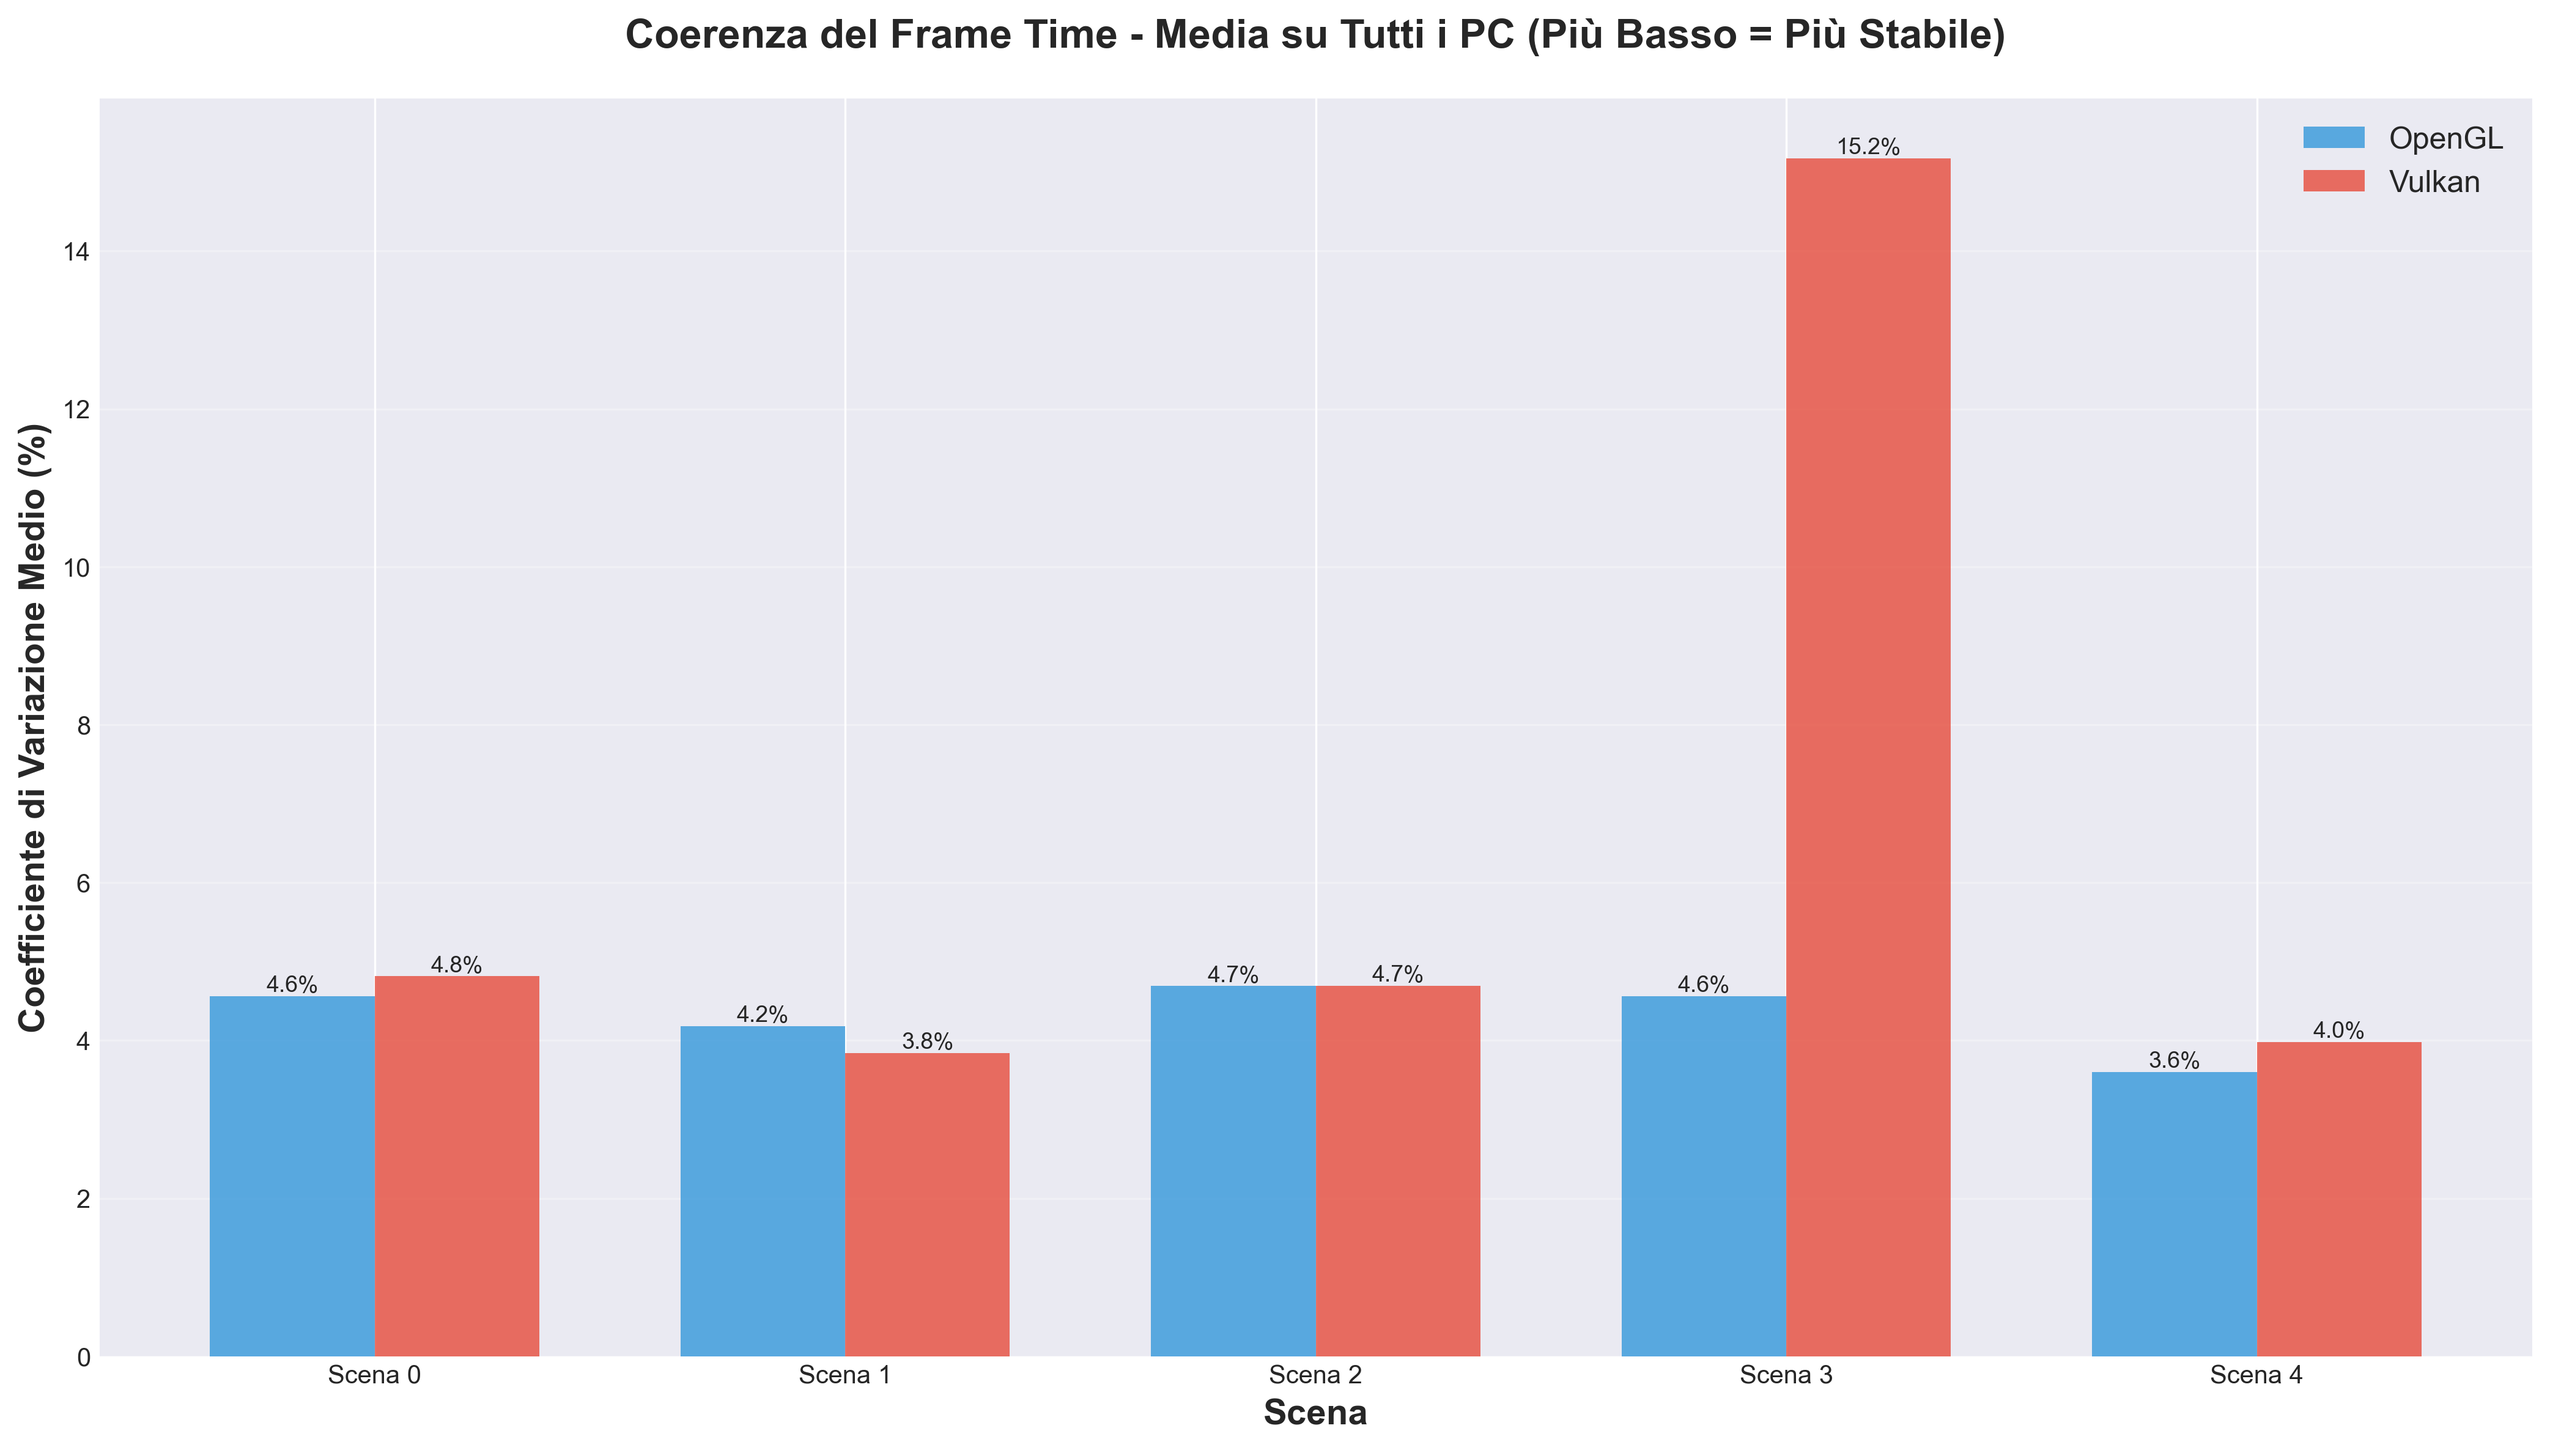
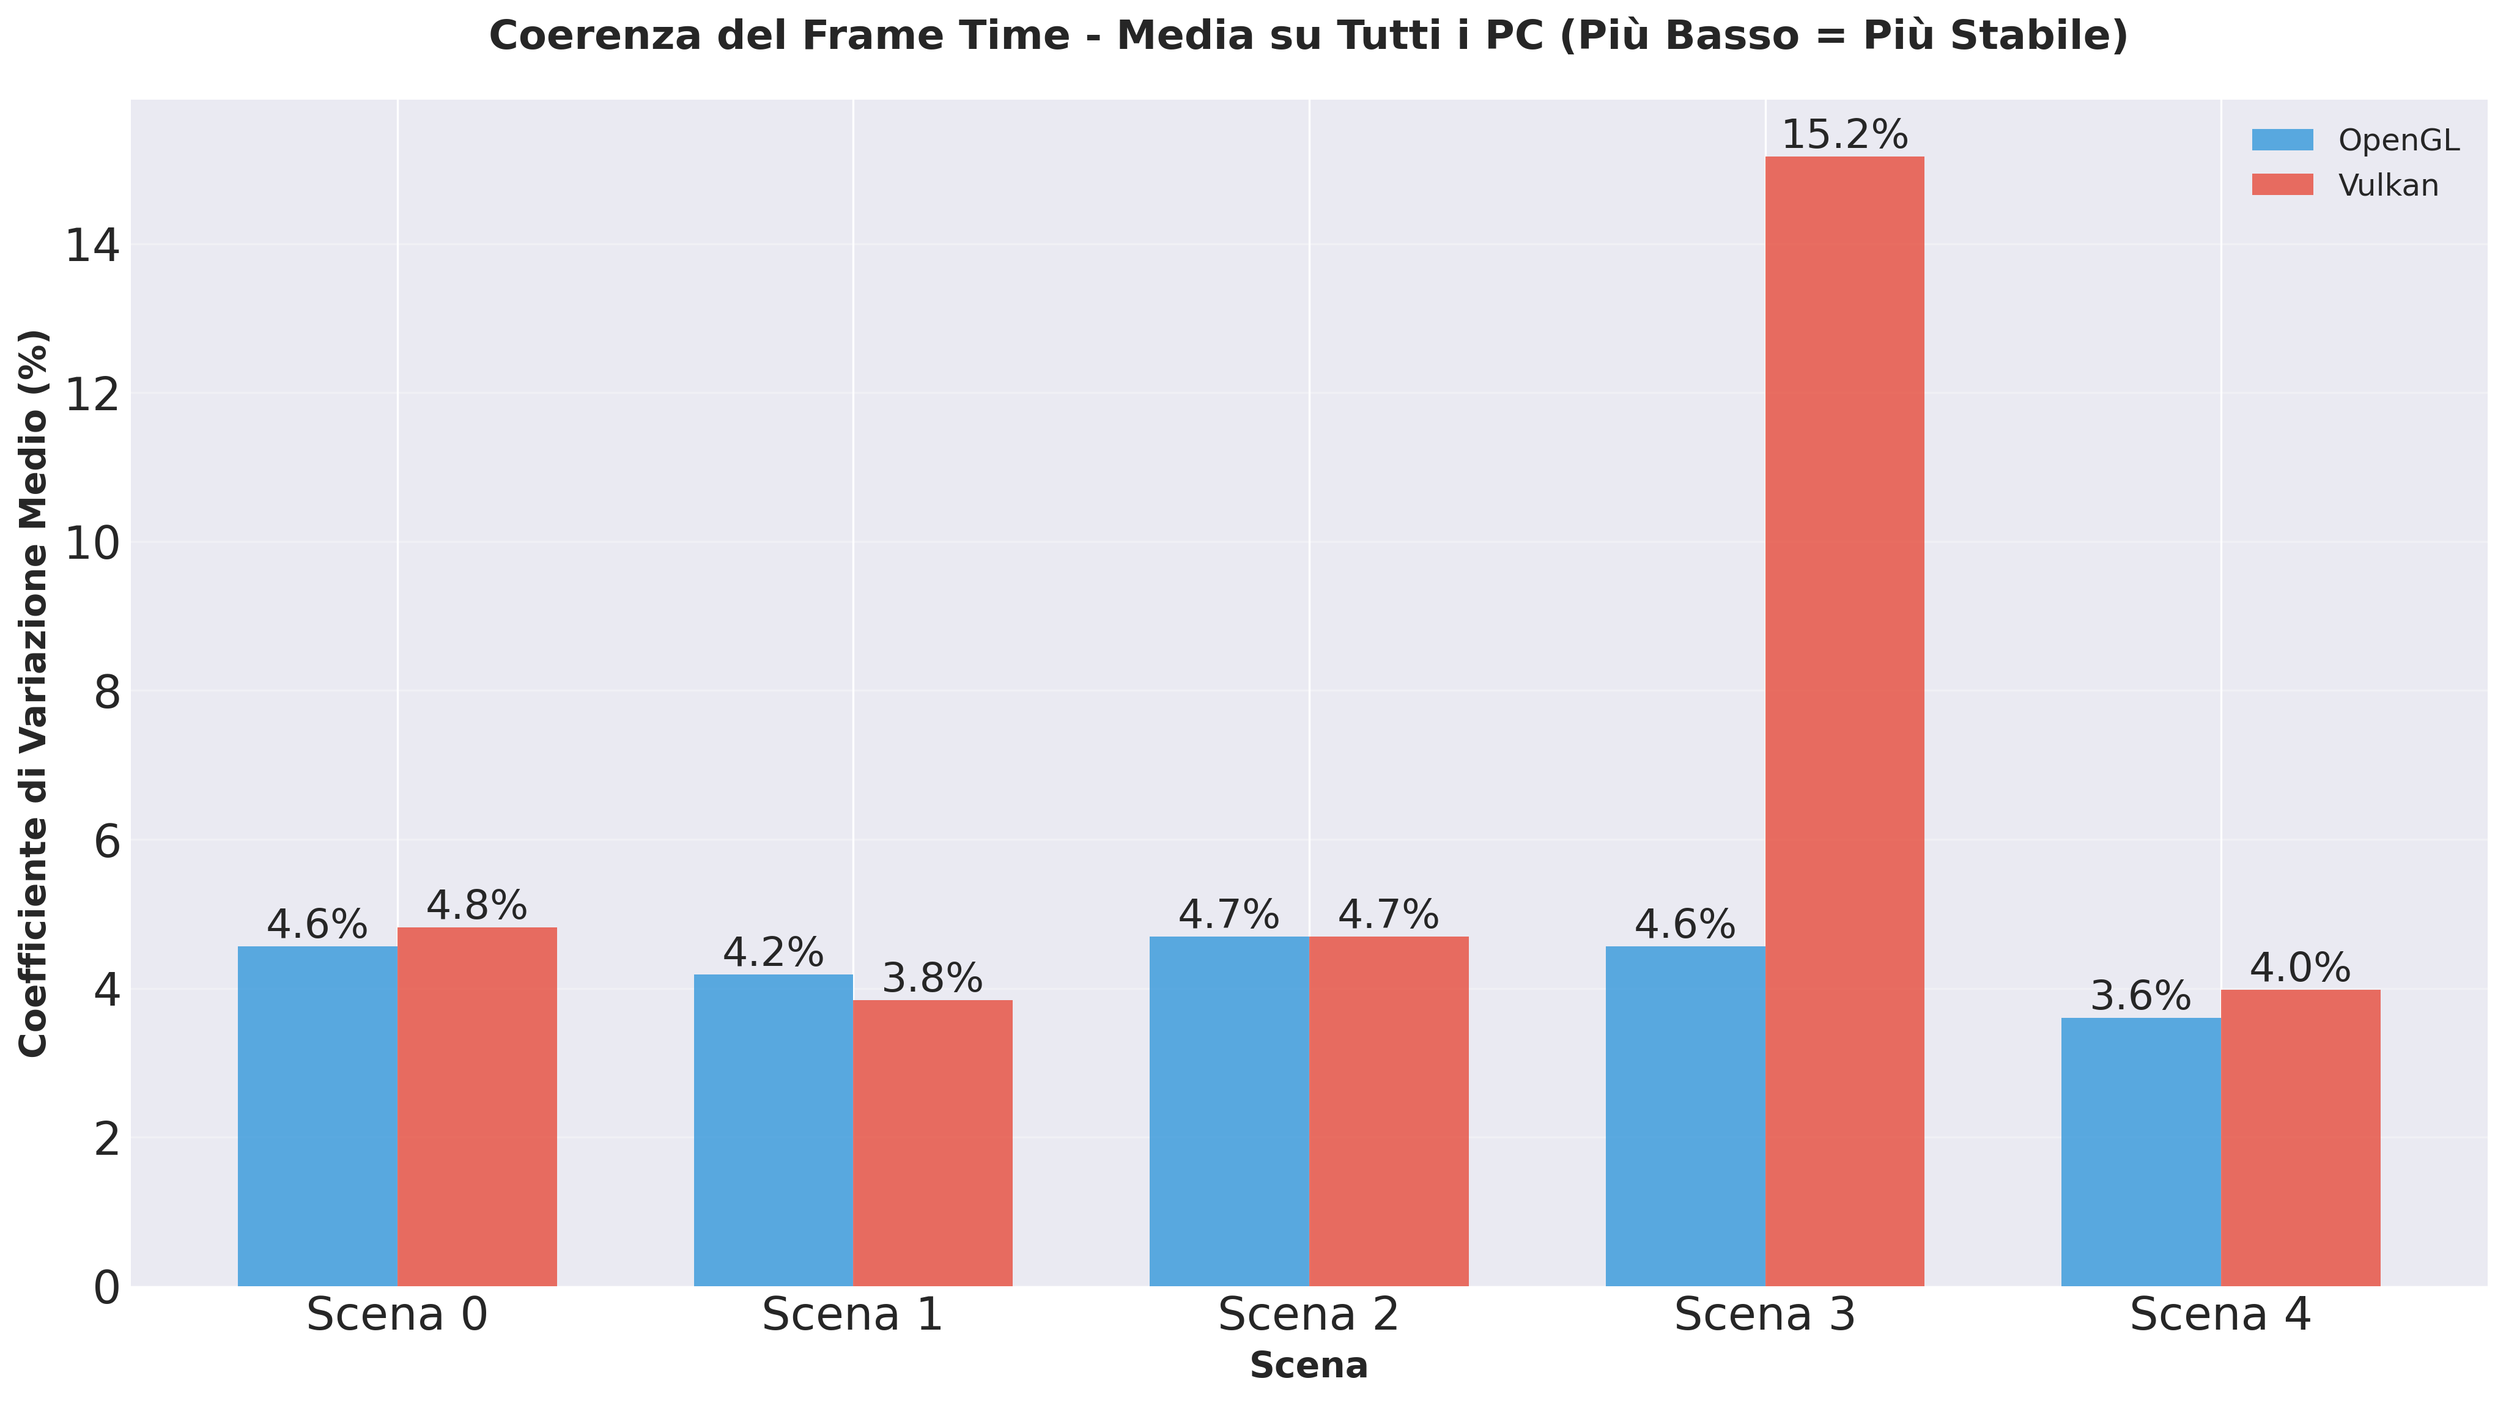
Increase graph font sizes

diff --git a/scripts/main.py b/scripts/main.py
@@ -10,14 +10,32 @@ from scipy import stats
 # ==============================
 # Configuration
 # ==============================
-plt.style.use('seaborn-v0_8-darkgrid')
-sns.set_palette("husl")
-
 DATA_ROOT = "data_clean"
 IMG_ROOT = "img"
+FONT_SIZE = 18  # <-- master font size variable
+
 os.makedirs(IMG_ROOT, exist_ok=True)
 
 pattern = re.compile(r"Scene_(\d+)_(opengl|vulkan)_.+_(frames|system)\.csv")
+
+plt.style.use('seaborn-v0_8-darkgrid')
+sns.set_palette("husl")
+
+plt.rcParams.update({
+    'font.size': FONT_SIZE,              # Base font size
+    'font.family': 'sans-serif',         # or 'serif', 'monospace', etc.
+    'font.sans-serif': ['DejaVu Sans'],  # Optional: specify actual font list
+    'axes.titlesize': FONT_SIZE + 4,
+    'axes.titleweight': 'bold',          # Control weight
+    'axes.labelsize': FONT_SIZE + 2,
+    'axes.labelweight': 'regular',
+    'xtick.labelsize': FONT_SIZE,
+    'ytick.labelsize': FONT_SIZE,
+    'legend.fontsize': FONT_SIZE,
+    'figure.titlesize': FONT_SIZE + 6,   # Title for the whole figure
+    'figure.titleweight': 'bold',
+})
+
 
 # ==============================
 # Data Collection
@@ -174,7 +192,7 @@ if "Average FPS" in summary.columns:
         for bar in bars:
             height = bar.get_height()
             ax.text(bar.get_x() + bar.get_width()/2., height, f'{height:.0f}', 
-                   ha='center', va='bottom', fontsize=10, fontweight='bold')
+                   ha='center', va='bottom', fontsize=FONT_SIZE-2, fontweight='bold')
 
     ax.set_xlabel('Scena', fontsize=14, fontweight='bold')
     ax.set_ylabel('FPS Medio', fontsize=14, fontweight='bold')
@@ -359,7 +377,7 @@ if not frames.empty and "FrameTime(ms)" in frames.columns:
         for bar in bars:
             height = bar.get_height()
             ax.text(bar.get_x() + bar.get_width()/2., height,
-                   f'{height:.1f}%', ha='center', va='bottom', fontsize=9)
+                   f'{height:.1f}%', ha='center', va='bottom', fontsize=FONT_SIZE-2)
     
     ax.set_xlabel('Scena', fontsize=14, fontweight='bold')
     ax.set_ylabel('Coefficiente di Variazione Medio (%)', fontsize=14, fontweight='bold')
@@ -393,7 +411,7 @@ if "P1 FPS" in summary.columns and "P99 FPS" in summary.columns:
         for bar in bars:
             height = bar.get_height()
             ax1.text(bar.get_x() + bar.get_width()/2., height, f'{height:.0f}',
-                    ha='center', va='bottom', fontsize=9)
+                    ha='center', va='bottom', fontsize=FONT_SIZE-2)
     
     ax1.set_xlabel('Scena', fontsize=12, fontweight='bold')
     ax1.set_ylabel('FPS 1% Più Bassi', fontsize=12, fontweight='bold')

diff --git a/thesis-main.tex b/thesis-main.tex
@@ -785,7 +785,6 @@ I risultati mostrano un miglioramento complessivo delle prestazioni del motore d
 utilizzata l'API Vulkan rispetto a OpenGL, mantenendo invariate le condizioni di test e le scene analizzate.
 La Figura~\ref{fig:heatmap-pc-fps} riassume il numero medio di frame per secondo (FPS) ottenuto da ciascuna
 configurazione hardware su tutte le scene e per entrambe le API grafiche.
-% TODO: Make font bigger
 \begin{figure}[htbp]
    \centering
    \includegraphics[width=1.0\linewidth]{figures/heatmap_pc_fps.png}
@@ -809,7 +808,6 @@ una gestione più efficiente delle risorse grafiche e dell'allocazione esplicita
 automatizzato di OpenGL. \\
 La Figura~\ref{fig:heatmap-pc-improvements} mostra i miglioramenti percentuali ottenuti, suddivisi per configurazione
 hardware e scena, fornendo una visione comparativa del guadagno effettivo per API.
-% TODO: Make font bigger
 \begin{figure}[htbp]
    \centering
    \includegraphics[width=.95\linewidth]{figures/heatmap_pc_improvements.png}
@@ -831,7 +829,6 @@ prevedibile del motore di rendering. Tuttavia, in alcune configurazioni Vulkan m
 rispetto alla media. Questo comportamento è attribuibile al fatto che l'API registra i command buffer del frame
 successivo mentre la GPU sta ancora elaborando quello corrente, introducendo leggere oscillazioni nel frame time dovute alla
 concorrenza tra CPU e GPU (Fig.\ref{fig:frametime-stability}). \\
-% TODO: Make font bigger
 \begin{figure}[htbp]
    \centering
    \includegraphics[width=1.0\linewidth]{figures/frametime_stability.png}
@@ -854,7 +851,6 @@ l'hardware moderno, specialmente in presenza di architetture multicore e scene c
 prestazioni in contesti moderati, tende a saturare rapidamente le risorse CPU a causa del vincolo al thread principale
 e della maggiore astrazione offerta dal driver. Qui vengono riportati i risultati ottenuti su tutte le scene da tutte le
 configurazioni hardware (Fig.\ref{fig:cross-pc-results}). \\
-% TODO: Make font bigger
 \begin{figure}[htbp]
    \centering
    \includegraphics[width=1.0\linewidth]{figures/cross_pc_results.png}
@@ -867,7 +863,6 @@ mostra una stabilità comparabile a quella di OpenGL nella maggior parte degli s
 una variabilità significativa degli FPS rispetto a OpenGL, suggerendo che in questo caso specifico il comportamento può
 essere più sensibile alla configurazione hardware. Ciò potrebbe spiegare le discrepanze osservate nei test eseguiti
 sulla piattaforma D. \\
-% TODO: Make font bigger
 \begin{figure}[htbp]
    \centering
    \includegraphics[width=1.0\linewidth]{figures/percentile_comparison.png}
